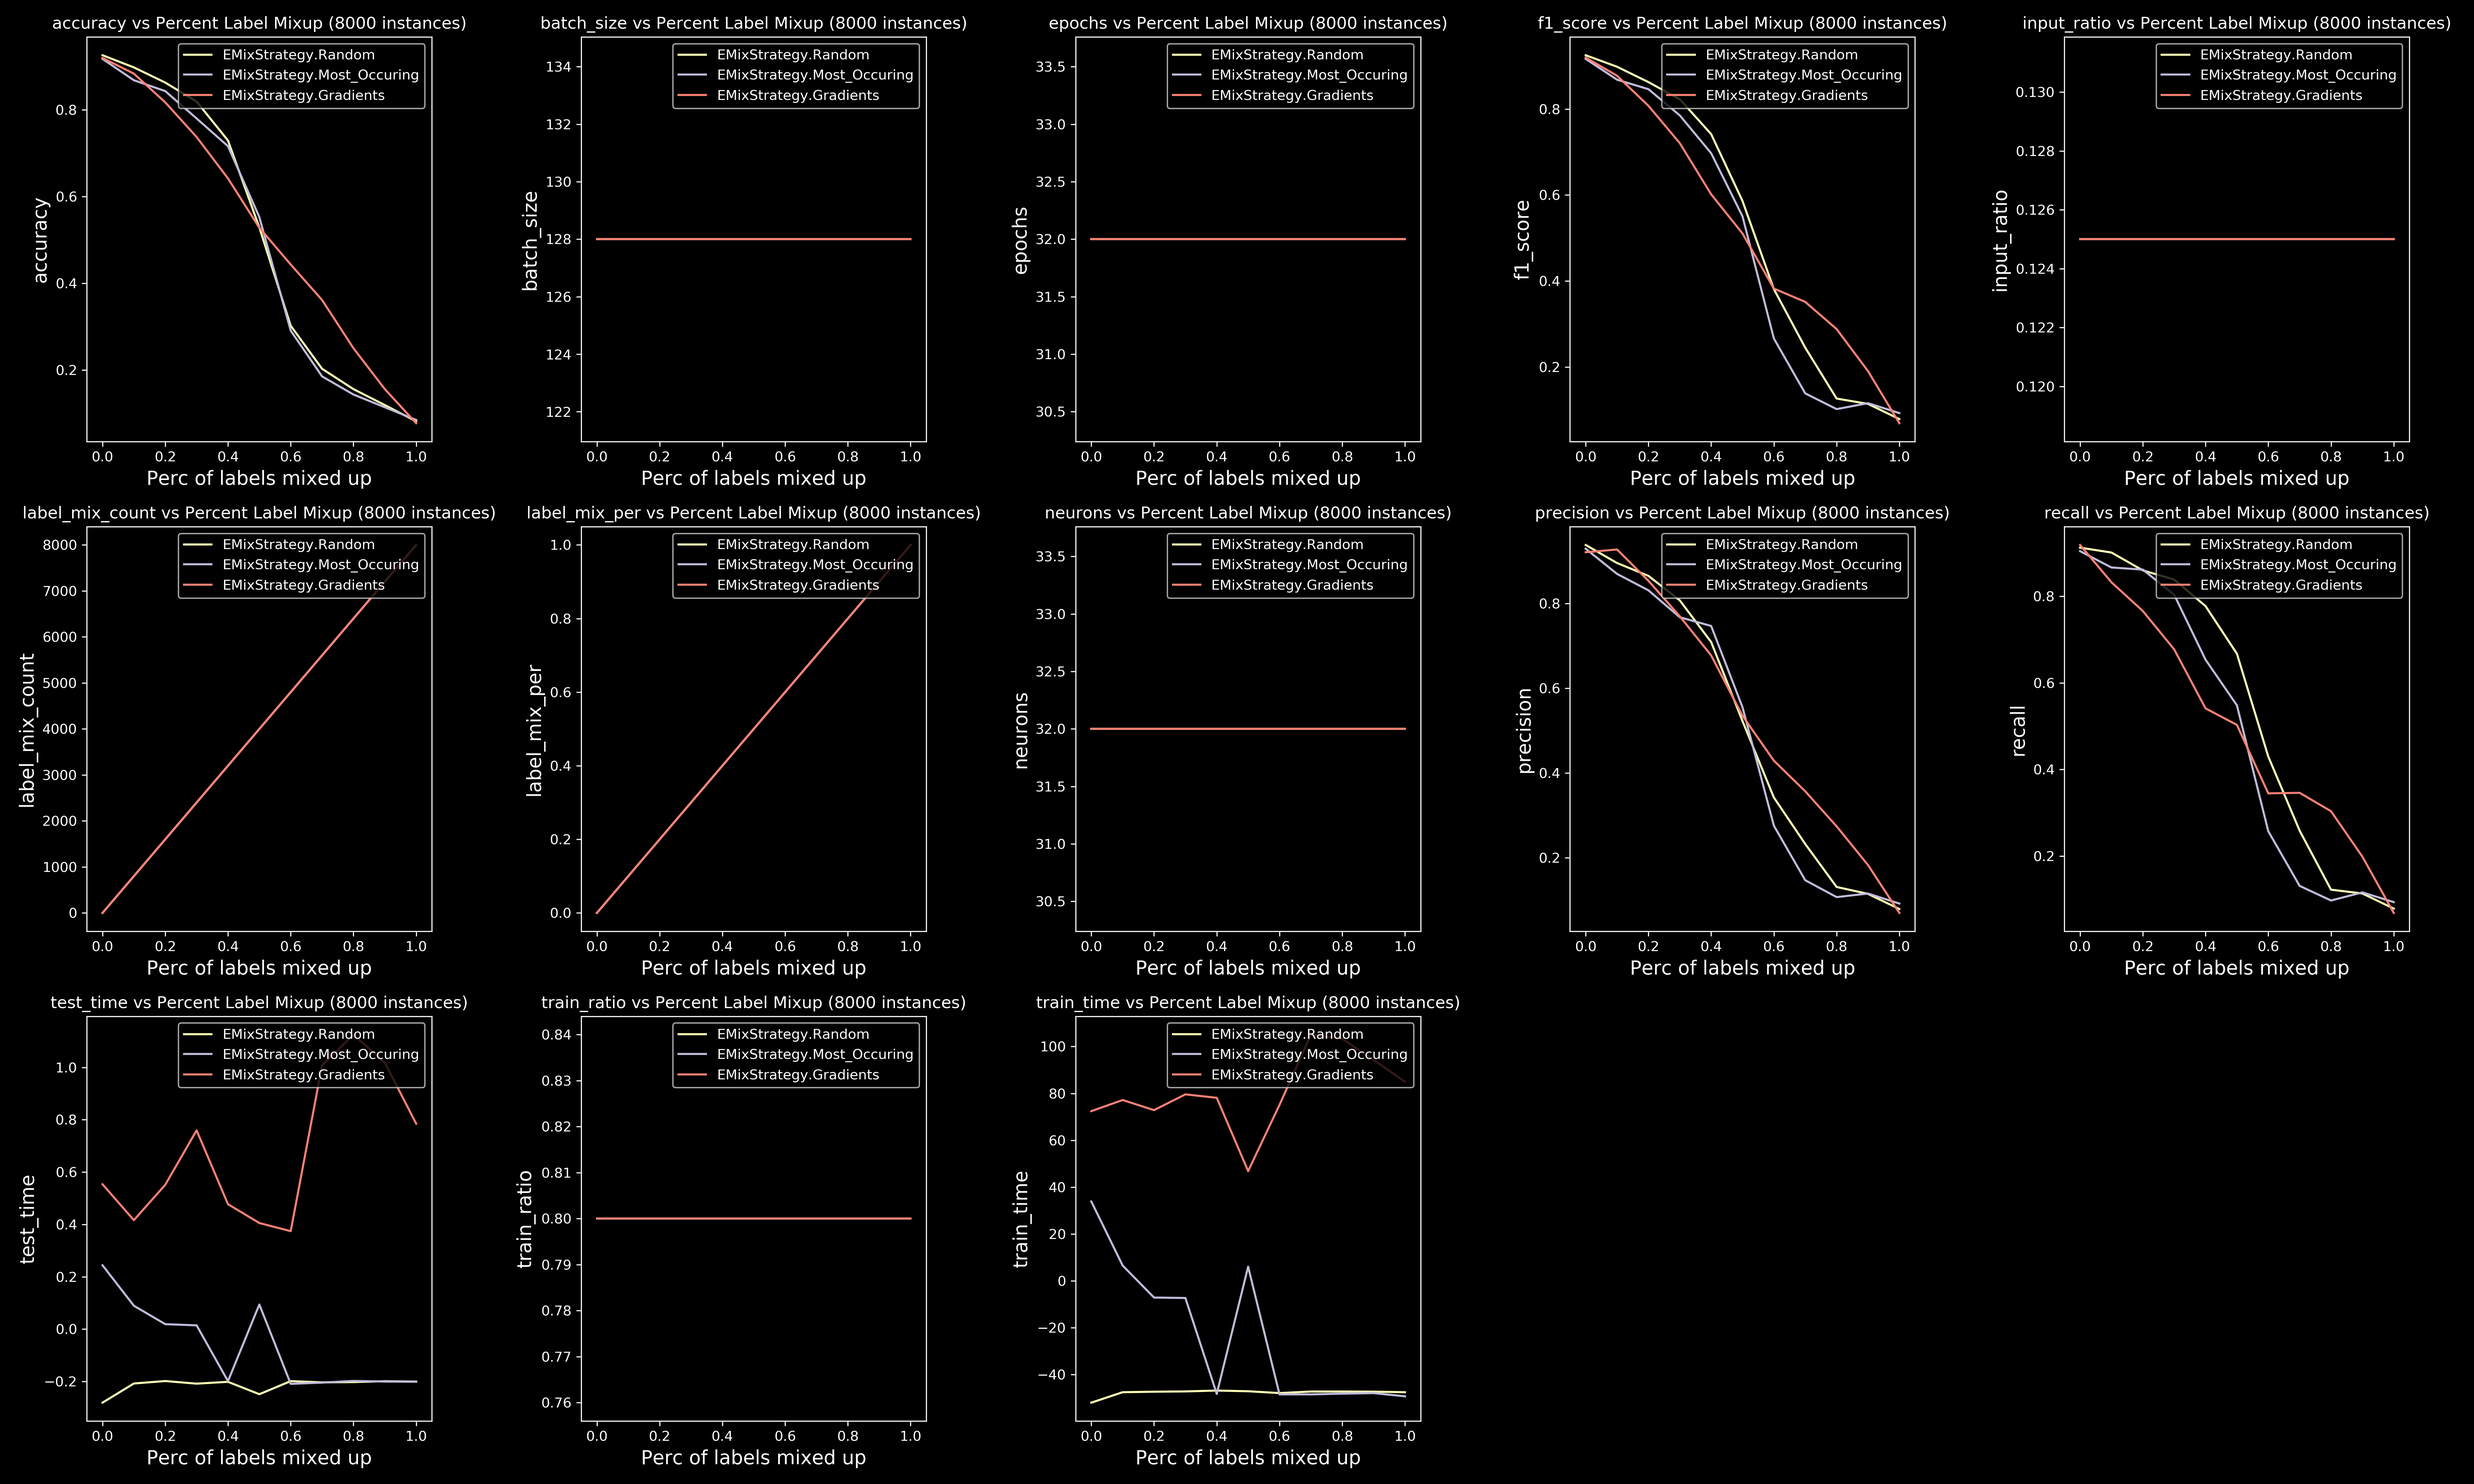
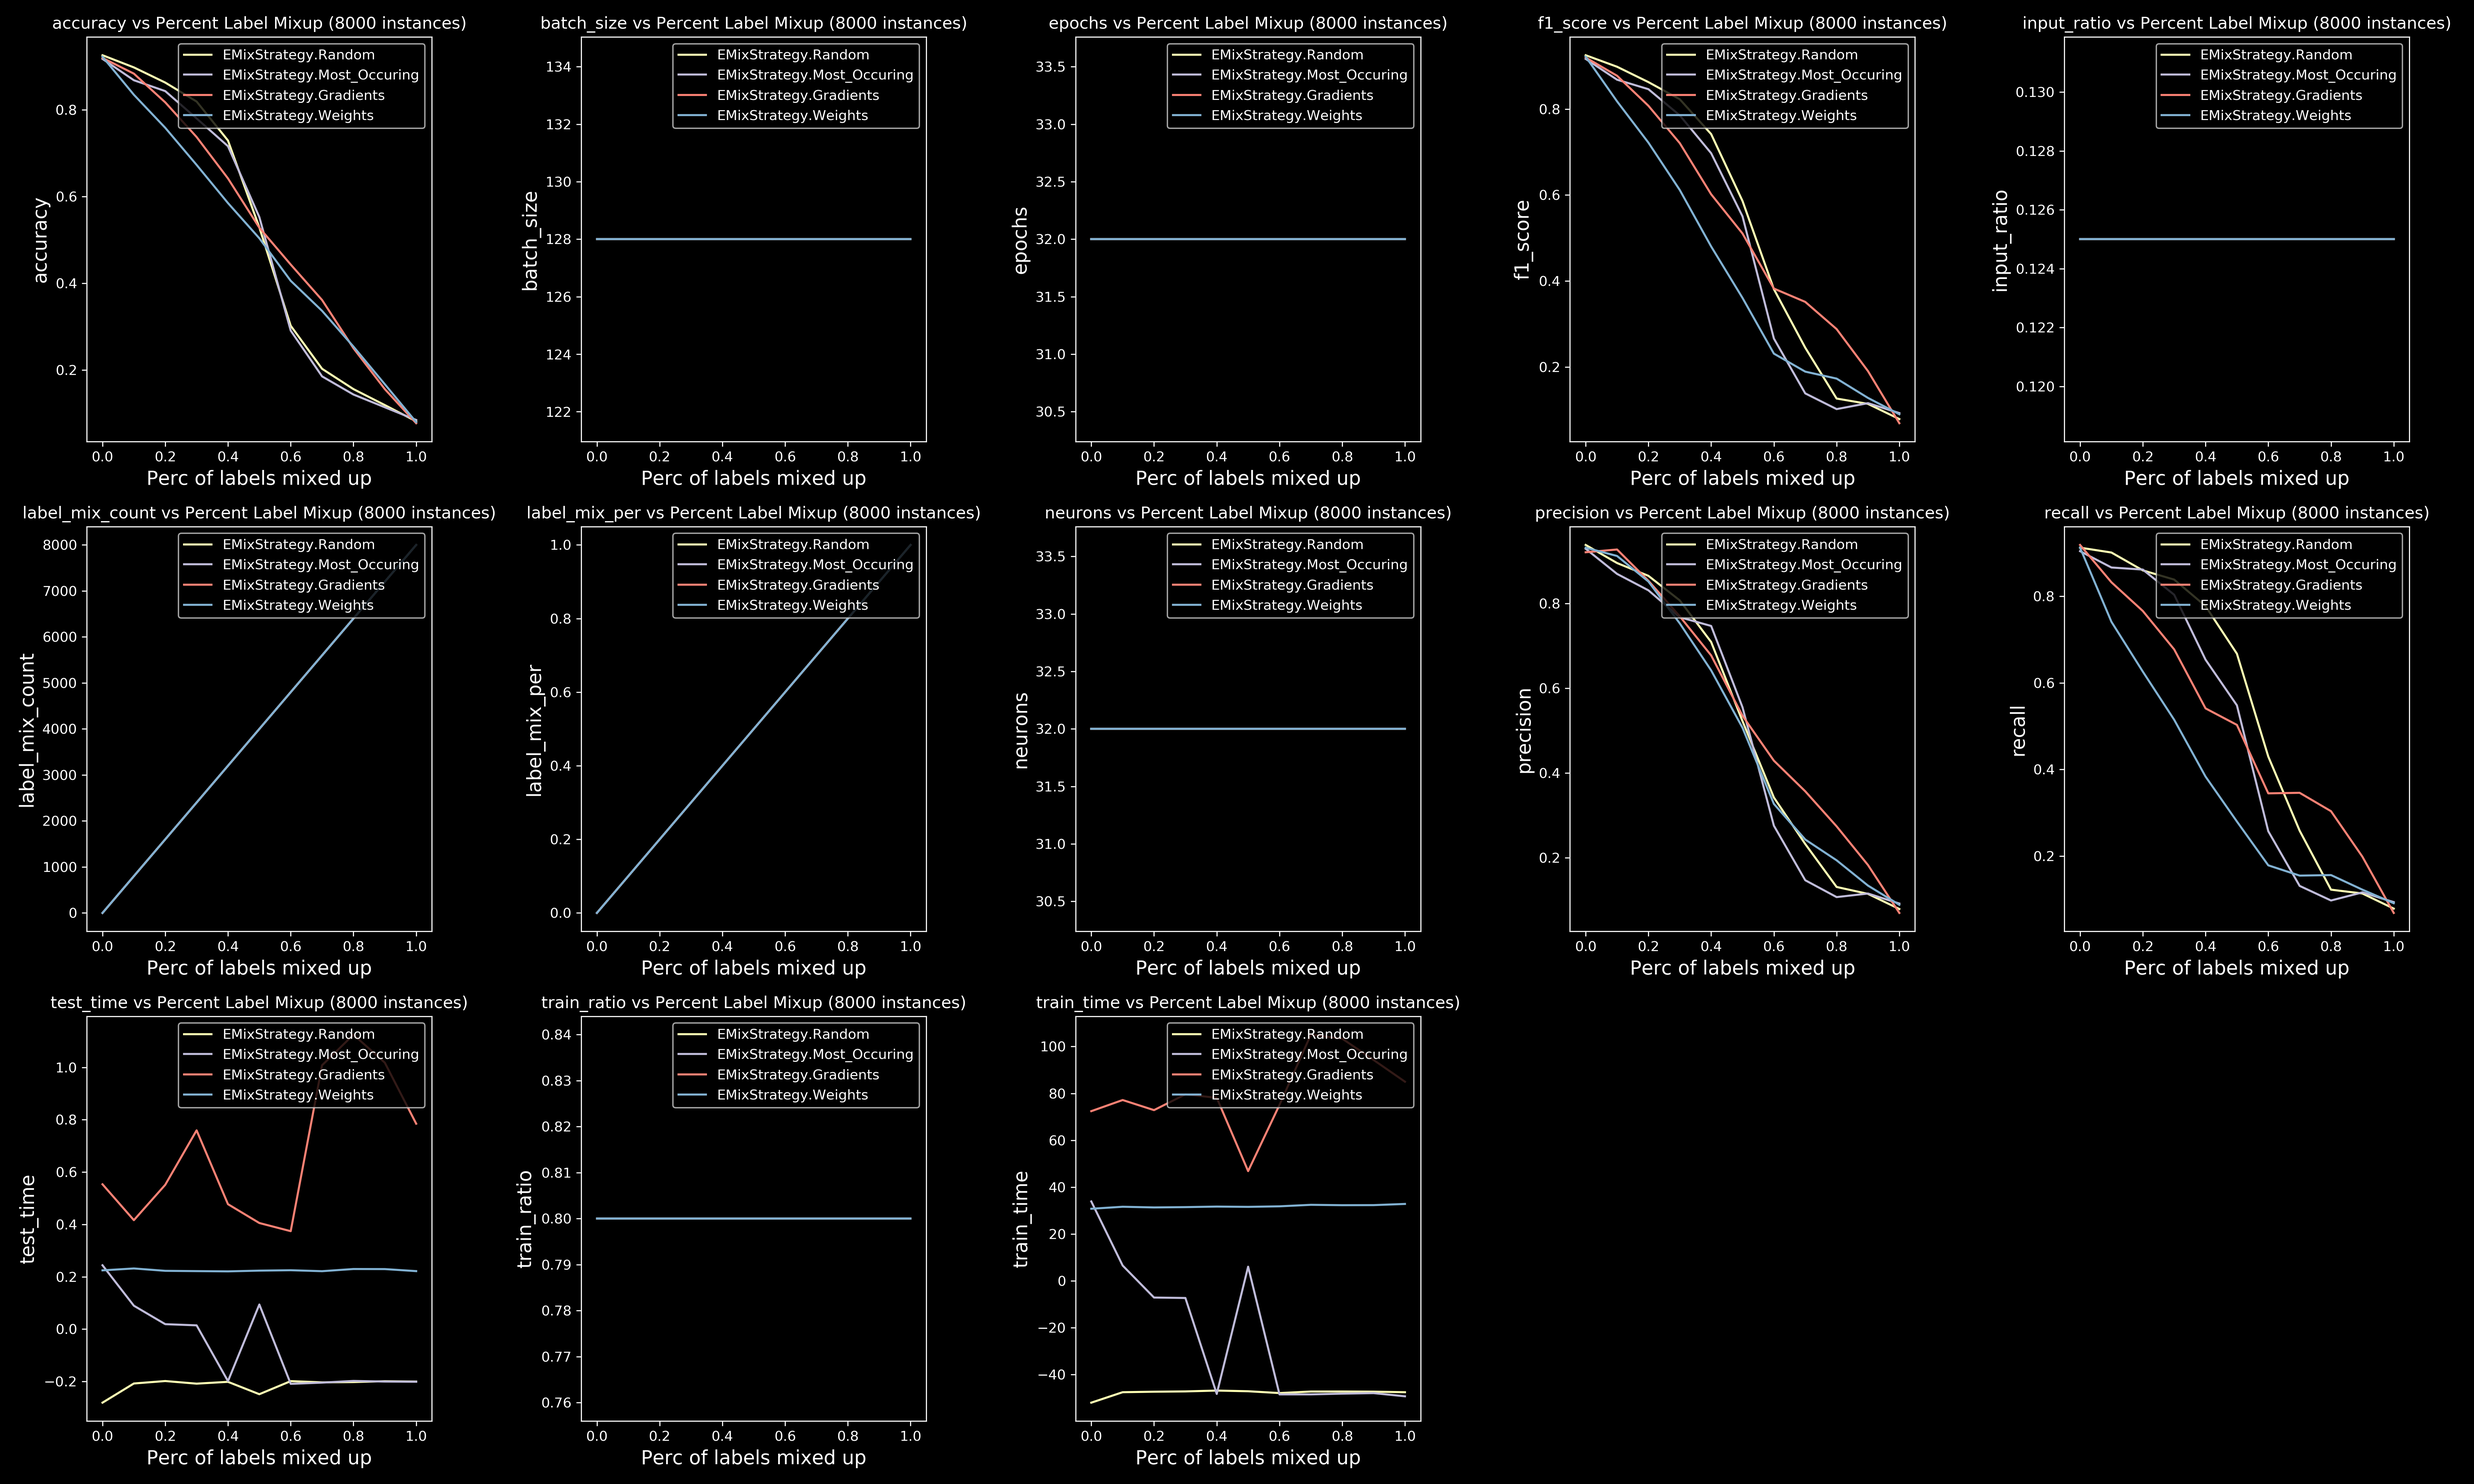
Finished testing four different data poisoning methodologies.  Need to make sure experiments are consistent as possible and do a little refactoring to the analyzer

diff --git a/ResultAnalyzer/ResultAnalysisNotebook.py b/ResultAnalyzer/ResultAnalysisNotebook.py
@@ -45,7 +45,9 @@ for strategyFileName in [os.path.join(saveResPath, str(strategy)) for strategy i
             elif fileName.endswith(str(EMixStrategy.Most_Occuring) + ".csv"):
                 files[EMixStrategy.Most_Occuring].append(fileName)
             elif fileName.endswith(str(EMixStrategy.Gradients) + ".csv"):
-                files[EMixStrategy.Gradients].append(str(fileName))        
+                files[EMixStrategy.Gradients].append(str(fileName))
+            elif fileName.endswith(str(EMixStrategy.Weights) + ".csv"):
+                files[EMixStrategy.Weights].append(str(fileName))   
 
 print(files)
 
@@ -93,7 +95,7 @@ for r in range(totalGraphs):
             #Row 1 is the mean in case we have multiple values recorded for each mix percentage trial
             y[i] = [result.iloc[1,r] for result in res[i]] 
             plt.subplot(rowSize, columnSize, r+1)
-            plt.plot(resLabels[i], y[i], "g-", label=EMixStrategy(i))
+            plt.plot(resLabels[i], y[i], "g-", label=EMixStrategy(i), color = 'C' + str(i))
 
     plt.title(str(yNames[r]) + " vs Percent Label Mixup (8000 instances)", fontsize=12)
     plt.ylabel(str(yNames[r]), fontsize=14, rotation=90)
